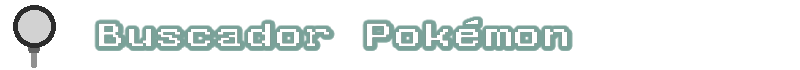
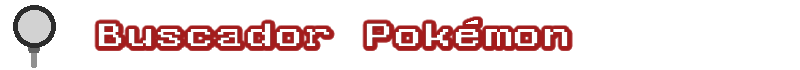
Search section button on nav (and new title)

Changed region(s): [[0.0938, 0.2286, 0.7188, 0.7429]]

diff --git a/protected/views/layouts/main.php b/protected/views/layouts/main.php
@@ -45,11 +45,12 @@
 	<div id="mainmenu">
 		<nav>
 			<ul>
-				<li><?php echo CHtml::link('<img src="'.Yii::app()->request->baseUrl.'/images/nav/pokecalc.png" width="220" height="100" />',  Yii::app()->createurl('/pokeball')) ?> </li>
-				<li><?php echo CHtml::link('<img src="'.Yii::app()->request->baseUrl.'/images/nav/stats.png" width="220" height="100" />',  Yii::app()->createurl('/stats'))?> </li>
-				<li><?php echo CHtml::link('<img src="'.Yii::app()->request->baseUrl.'/images/nav/jugadores.png" width="220" height="100" />', array('/jugadores')) ?></li>
-				<li><?php echo CHtml::link('<img src="'.Yii::app()->request->baseUrl.'/images/nav/inscripcion.png" width="220" height="100" />', array('/torneo')) ?></li>
-				<li><?php echo CHtml::link('<img src="'.Yii::app()->request->baseUrl.'/images/nav/autor.png" width="220" height="100" />', array('/sobre_mi')) ?></li>
+				<li><?php echo CHtml::link('<img src="'.Yii::app()->request->baseUrl.'/images/nav/pokecalc.png" width="185" height="86" />',  Yii::app()->createurl('/pokeball')) ?> </li>
+				<li><?php echo CHtml::link('<img src="'.Yii::app()->request->baseUrl.'/images/nav/stats.png" width="185" height="86" />',  Yii::app()->createurl('/stats'))?> </li>
+				<li><?php echo CHtml::link('<img src="'.Yii::app()->request->baseUrl.'/images/nav/jugadores.png" width="185" height="86" />', array('/jugadores')) ?></li>
+				<li><?php echo CHtml::link('<img src="'.Yii::app()->request->baseUrl.'/images/nav/buscador.png" width="185" height="86" />', array('/sobre_mi')) ?></li>
+				<li><?php echo CHtml::link('<img src="'.Yii::app()->request->baseUrl.'/images/nav/inscripcion.png" width="185" height="86" />', array('/torneo')) ?></li>
+				<li><?php echo CHtml::link('<img src="'.Yii::app()->request->baseUrl.'/images/nav/autor.png" width="185" height="86" />', array('/sobre_mi')) ?></li>
 			</ul>
 		</nav>
 
